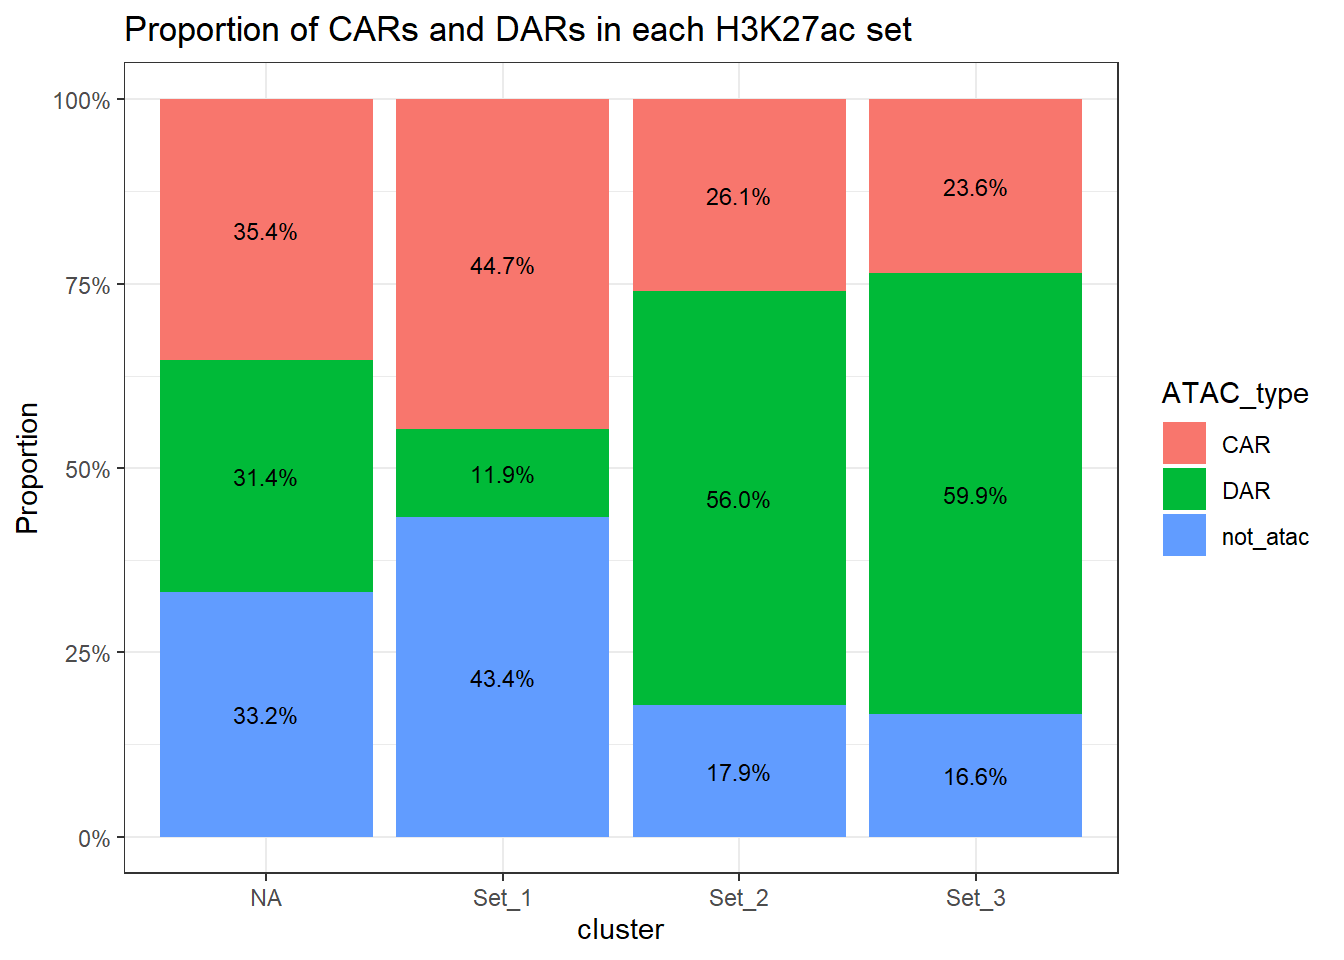
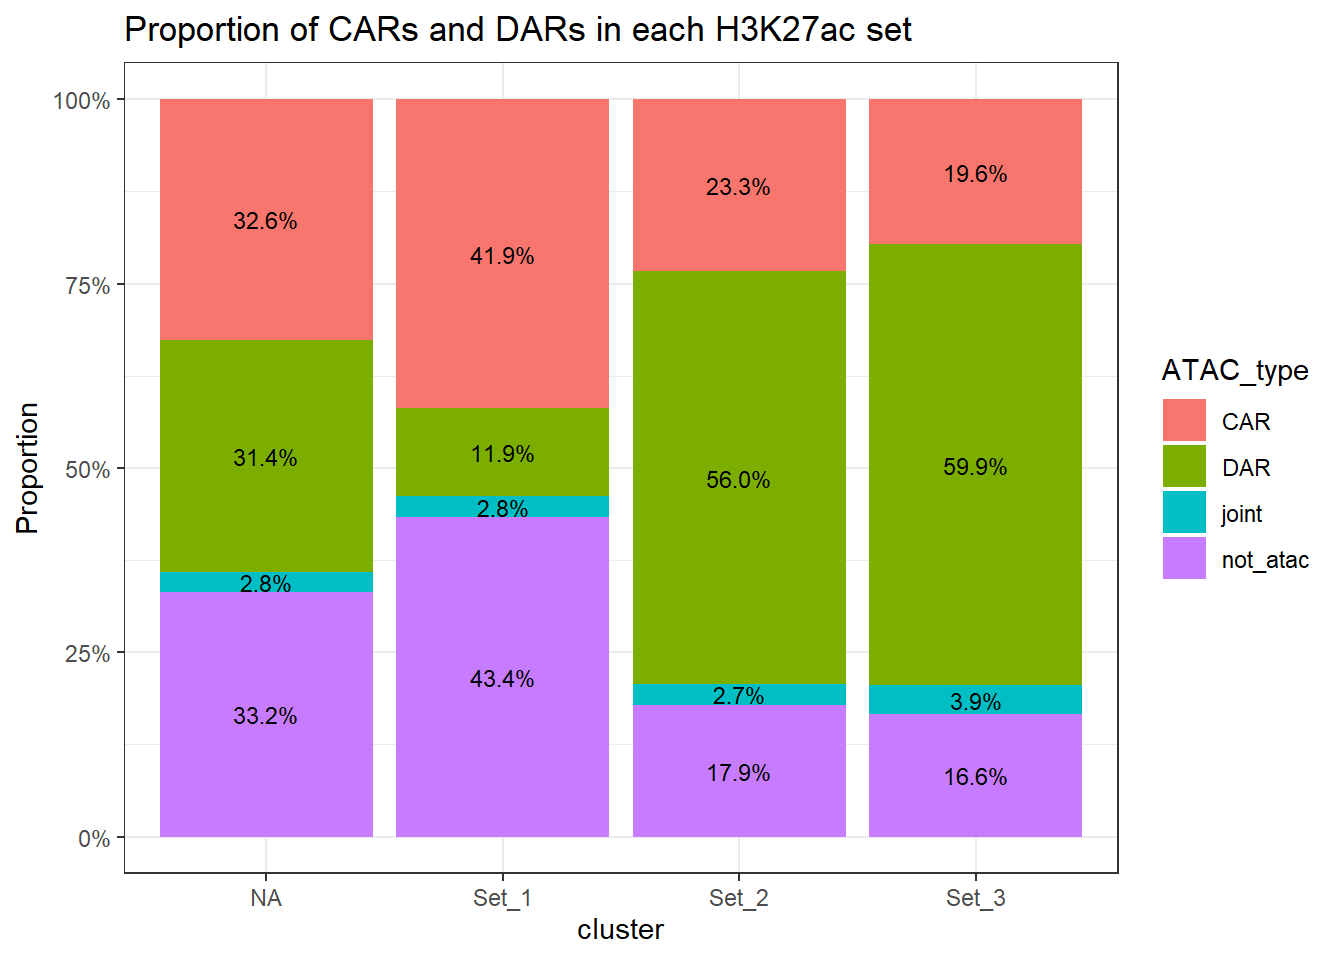
Build site.

diff --git a/docs/ATAC_integration_data1.html b/docs/ATAC_integration_data1.html
@@ -37,6 +37,19 @@
 <script src="site_libs/navigation-1.1/tabsets.js"></script>
 <link href="site_libs/highlightjs-9.12.0/textmate.css" rel="stylesheet" />
 <script src="site_libs/highlightjs-9.12.0/highlight.js"></script>
+<link href="site_libs/htmltools-fill-0.5.8.1/fill.css" rel="stylesheet" />
+<script src="site_libs/htmlwidgets-1.6.4/htmlwidgets.js"></script>
+<link href="site_libs/datatables-css-0.0.0/datatables-crosstalk.css" rel="stylesheet" />
+<script src="site_libs/datatables-binding-0.33/datatables.js"></script>
+<link href="site_libs/dt-core-1.13.6/css/jquery.dataTables.min.css" rel="stylesheet" />
+<link href="site_libs/dt-core-1.13.6/css/jquery.dataTables.extra.css" rel="stylesheet" />
+<script src="site_libs/dt-core-1.13.6/js/jquery.dataTables.min.js"></script>
+<link href="site_libs/nouislider-7.0.10/jquery.nouislider.min.css" rel="stylesheet" />
+<script src="site_libs/nouislider-7.0.10/jquery.nouislider.min.js"></script>
+<link href="site_libs/selectize-0.12.0/selectize.bootstrap3.css" rel="stylesheet" />
+<script src="site_libs/selectize-0.12.0/selectize.min.js"></script>
+<link href="site_libs/crosstalk-1.2.2/css/crosstalk.min.css" rel="stylesheet" />
+<script src="site_libs/crosstalk-1.2.2/js/crosstalk.min.js"></script>
 <link href="site_libs/font-awesome-6.5.2/css/all.min.css" rel="stylesheet" />
 <link href="site_libs/font-awesome-6.5.2/css/v4-shims.min.css" rel="stylesheet" />
 
@@ -521,15 +534,15 @@ project makes it easier to run your code on other machines.</p>
 <div class="panel panel-default">
 <div class="panel-heading">
 <p class="panel-title">
-<a data-toggle="collapse" data-parent="#workflowr-checks" href="#strongRepositoryversionstrongahrefhttpsgithubcomreneeisnowhereDXRcontinuetree2be9ae76c74a1a497afd38550e2b13e3aa8737cctargetblank2be9ae7a">
+<a data-toggle="collapse" data-parent="#workflowr-checks" href="#strongRepositoryversionstrongahrefhttpsgithubcomreneeisnowhereDXRcontinuetree35a2cb2b66e21b805b037a6027d5c706638639a9targetblank35a2cb2a">
 <span class="glyphicon glyphicon-ok text-success"
 aria-hidden="true"></span> <strong>Repository version:</strong>
-<a href="https://github.com/reneeisnowhere/DXR_continue/tree/2be9ae76c74a1a497afd38550e2b13e3aa8737cc" target="_blank">2be9ae7</a>
+<a href="https://github.com/reneeisnowhere/DXR_continue/tree/35a2cb2b66e21b805b037a6027d5c706638639a9" target="_blank">35a2cb2</a>
 </a>
 </p>
 </div>
 <div
[2 lines of base64/hex data omitted]
 class="panel-collapse collapse">
 <div class="panel-body">
 <p>
@@ -539,7 +552,7 @@ reproducibility.
 </p>
 <p>
 The results in this page were generated with repository version
-<a href="https://github.com/reneeisnowhere/DXR_continue/tree/2be9ae76c74a1a497afd38550e2b13e3aa8737cc" target="_blank">2be9ae7</a>.
+<a href="https://github.com/reneeisnowhere/DXR_continue/tree/35a2cb2b66e21b805b037a6027d5c706638639a9" target="_blank">35a2cb2</a>.
 See the <em>Past versions</em> tab to see a history of the changes made
 to the R Markdown and HTML files.
 </p>
@@ -589,7 +602,6 @@ Unstaged changes:
     Modified:   analysis/H3K27ac_summit_processing.Rmd
     Modified:   analysis/dual_histone_TE_investigation.Rmd
     Modified:   analysis/final_analysis.Rmd
-    Modified:   analysis/index.Rmd
     Modified:   analysis/summit_files_processing.Rmd
 
 </code></pre>
@@ -636,6 +648,40 @@ Message
 </tr>
 </thead>
 <tbody>
+<tr>
+<td>
+Rmd
+</td>
+<td>
+<a href="https://github.com/reneeisnowhere/DXR_continue/blob/35a2cb2b66e21b805b037a6027d5c706638639a9/analysis/ATAC_integration_data1.Rmd" target="_blank">35a2cb2</a>
+</td>
+<td>
+reneeisnowhere
+</td>
+<td>
+2026-02-06
+</td>
+<td>
+wflow_publish("analysis/ATAC_integration_data1.Rmd")
+</td>
+</tr>
+<tr>
+<td>
+html
+</td>
+<td>
+<a href="https://rawcdn.githack.com/reneeisnowhere/DXR_continue/d950fb258e14598011f4eb05ff1a379a98afe37e/docs/ATAC_integration_data1.html" target="_blank">d950fb2</a>
+</td>
+<td>
+reneeisnowhere
+</td>
+<td>
+2026-02-06
+</td>
+<td>
+Build site.
+</td>
+</tr>
 <tr>
 <td>
 Rmd
@@ -752,10 +798,9 @@ prop_ATAC_df &lt;- peakAnnoList_H3K27ac$all_H3K27ac %&gt;%
   left_join(H3K27ac_lookup) %&gt;% 
   mutate(cluster = if_else(is.na(cluster), &quot;NA&quot;, cluster)) %&gt;% 
   mutate(
-    ATAC_type = case_when(
+    ATAC_type = case_when(Peakid %in% joint_H3K27ac ~ &quot;joint&quot;,
       Peakid %in% H3K27ac_CAR_peakid$ROI_ID ~ &quot;CAR&quot;,
       Peakid %in% H3K27ac_DAR_peakid$ROI_ID ~ &quot;DAR&quot;,
-      Peakid %in% joint_H3K27ac             ~ &quot;joint&quot;,
       TRUE ~ &quot;not_atac&quot;
     )
   ) %&gt;%
@@ -778,6 +823,67 @@ ggplot(prop_ATAC_df, aes(x = cluster, y = percent, fill = ATAC_type)) +
   theme_bw()+
   ggtitle(&quot;Proportion of CARs and DARs in each H3K27ac set&quot;)</code></pre>
 <p><img src="figure/ATAC_integration_data1.Rmd/unnamed-chunk-2-1.png" width="672" style="display: block; margin: auto;" /></p>
+<p>
+<button type="button" class="btn btn-default btn-xs btn-workflowr btn-workflowr-fig" data-toggle="collapse" data-target="#fig-unnamed-chunk-2-1">
+Past versions of unnamed-chunk-2-1.png
+</button>
+</p>
+<div id="fig-unnamed-chunk-2-1" class="collapse">
+<div class="table-responsive">
+<table class="table table-condensed table-hover">
+<thead>
+<tr>
+<th>
+Version
+</th>
+<th>
+Author
+</th>
+<th>
+Date
+</th>
+</tr>
+</thead>
+<tbody>
+<tr>
+<td>
+<a href="https://github.com/reneeisnowhere/DXR_continue/blob/d950fb258e14598011f4eb05ff1a379a98afe37e/docs/figure/ATAC_integration_data1.Rmd/unnamed-chunk-2-1.png" target="_blank">d950fb2</a>
+</td>
+<td>
+reneeisnowhere
+</td>
+<td>
+2026-02-06
+</td>
+</tr>
+</tbody>
+</table>
+</div>
+</div>
+<pre class="r"><code>prop_ATAC_df %&gt;% 
+  pivot_wider(id_cols = c(cluster), names_from = ATAC_type, values_from = percent) %&gt;% 
+   datatable(.,rownames = FALSE,
+  filter = &#39;top&#39;,       # add filter/search boxes
+  options = list(
+    pageLength = 10,
+    autoWidth = TRUE,
+    scrollX = TRUE)) %&gt;% 
+  DT::formatRound(columns = c(&quot;CAR&quot;, &quot;DAR&quot;, &quot;joint&quot;, &quot;not_atac&quot;), # explicitly name the numeric columns
+    digits = 2)</code></pre>
+<div class="datatables html-widget html-fill-item" id="htmlwidget-c7fc7fd0704f0fe11c1f" style="width:100%;height:auto;"></div>
+<script type="application/json" data-for="htmlwidget-c7fc7fd0704f0fe11c1f">{"x":{"filter":"top","vertical":false,"filterHTML":"<tr>\n  <td data-type=\"character\" style=\"vertical-align: top;\">\n    <div class=\"form-group has-feedback\" style=\"margin-bottom: auto;\">\n      <input type=\"search\" placeholder=\"All\" class=\"form-control\" style=\"width: 100%;\"/>\n      <span class=\"glyphicon glyphicon-remove-circle form-control-feedback\"><\/span>\n    <\/div>\n  <\/td>\n  <td data-type=\"number\" style=\"vertical-align: top;\">\n    <div class=\"form-group has-feedback\" style=\"margin-bottom: auto;\">\n      <input type=\"search\" placeholder=\"All\" class=\"form-control\" style=\"width: 100%;\"/>\n      <span class=\"glyphicon glyphicon-remove-circle form-control-feedback\"><\/span>\n    <\/div>\n    <div style=\"display: none;position: absolute;width: 200px;opacity: 1\">\n      <div data-min=\"19.6285671146006\" data-max=\"41.9252570764144\" data-scale=\"14\"><\/div>\n      <span style=\"float: left;\"><\/span>\n      <span style=\"float: right;\"><\/span>\n    <\/div>\n  <\/td>\n  <td data-type=\"number\" style=\"vertical-align: top;\">\n    <div class=\"form-group has-feedback\" style=\"margin-bottom: auto;\">\n      <input type=\"search\" placeholder=\"All\" class=\"form-control\" style=\"width: 100%;\"/>\n      <span class=\"glyphicon glyphicon-remove-circle form-control-feedback\"><\/span>\n    <\/div>\n    <div style=\"display: none;position: absolute;width: 200px;opacity: 1\">\n      <div data-min=\"11.9463318920097\" data-max=\"59.8520308017515\" data-scale=\"14\"><\/div>\n      <span style=\"float: left;\"><\/span>\n      <span style=\"float: right;\"><\/span>\n    <\/div>\n  <\/td>\n  <td data-type=\"number\" style=\"vertical-align: top;\">\n    <div class=\"form-group has-feedback\" style=\"margin-bottom: auto;\">\n      <input type=\"search\" placeholder=\"All\" class=\"form-control\" style=\"width: 100%;\"/>\n      <span class=\"glyphicon glyphicon-remove-circle form-control-feedback\"><\/span>\n    <\/div>\n    <div style=\"display: none;position: absolute;width: 200px;opacity: 1\">\n      <div data-min=\"2.74368231046931\" data-max=\"3.92571342292013\" data-scale=\"15\"><\/div>\n      <span style=\"float: left;\"><\/span>\n      <span style=\"float: right;\"><\/span>\n    <\/div>\n  <\/td>\n  <td data-type=\"number\" style=\"vertical-align: top;\">\n    <div class=\"form-group has-feedback\" style=\"margin-bottom: auto;\">\n      <input type=\"search\" placeholder=\"All\" class=\"form-control\" style=\"width: 100%;\"/>\n      <span class=\"glyphicon glyphicon-remove-circle form-control-feedback\"><\/span>\n    <\/div>\n    <div style=\"display: none;position: absolute;width: 200px;opacity: 1\">\n      <div data-min=\"16.5936886607278\" data-max=\"43.367791868028\" data-scale=\"14\"><\/div>\n      <span style=\"float: left;\"><\/span>\n      <span style=\"float: right;\"><\/span>\n    <\/div>\n  <\/td>\n<\/tr>","data":[["NA","Set_1","Set_2","Set_3"],[32.62140779886801,41.92525707641438,23.32129963898917,19.62856711460064],[31.43000093811564,11.94633189200974,56.02888086642599,59.85203080175148],[2.783076393883486,2.760619163547836,2.743682310469314,3.925713422920127],[33.16551486913287,43.36779186802805,17.90613718411552,16.59368866072777]],"container":"<table class=\"display\">\n  <thead>\n    <tr>\n      <th>cluster<\/th>\n      <th>CAR<\/th>\n      <th>DAR<\/th>\n      <th>joint<\/th>\n      <th>not_atac<\/th>\n    <\/tr>\n  <\/thead>\n<\/table>","options":{"pageLength":10,"autoWidth":true,"scrollX":true,"columnDefs":[{"targets":1,"render":"function(data, type, row, meta) {\n    return type !== 'display' ? data : DTWidget.formatRound(data, 2, 3, \",\", \".\", null);\n  }"},{"targets":2,"render":"function(data, type, row, meta) {\n    return type !== 'display' ? data : DTWidget.formatRound(data, 2, 3, \",\", \".\", null);\n  }"},{"targets":3,"render":"function(data, type, row, meta) {\n    return type !== 'display' ? data : DTWidget.formatRound(data, 2, 3, \",\", \".\", null);\n  }"},{"targets":4,"render":"function(data, type, row, meta) {\n    return type !== 'display' ? data : DTWidget.formatRound(data, 2, 3, \",\", \".\", null);\n  }"},{"className":"dt-right","targets":[1,2,3,4]},{"name":"cluster","targets":0},{"name":"CAR","targets":1},{"name":"DAR","targets":2},{"name":"joint","targets":3},{"name":"not_atac","targets":4}],"order":[],"orderClasses":false,"orderCellsTop":true}},"evals":["options.columnDefs.0.render","options.columnDefs.1.render","options.columnDefs.2.render","options.columnDefs.3.render"],"jsHooks":[]}</script>
+<pre class="r"><code>prop_ATAC_df %&gt;% 
+  pivot_wider(id_cols = c(cluster), names_from = ATAC_type, values_from = n) %&gt;%
+  rowwise() %&gt;% 
+  mutate(total=sum(c_across(any_of(c(&quot;CAR&quot;, &quot;DAR&quot;,&quot;joint&quot;,&quot;not_atac&quot;))))) %&gt;% 
+  datatable(.,rownames = FALSE,
+  filter = &#39;top&#39;,       # add filter/search boxes
+  options = list(
+    pageLength = 10,
+    autoWidth = TRUE,
+    scrollX = TRUE), caption = &quot;counts of H3K27ac ROIs&quot;)</code></pre>
+<div class="datatables html-widget html-fill-item" id="htmlwidget-1aee943cb026952af47d" style="width:100%;height:auto;"></div>
+<script type="application/json" data-for="htmlwidget-1aee943cb026952af47d">{"x":{"filter":"top","vertical":false,"filterHTML":"<tr>\n  <td data-type=\"character\" style=\"vertical-align: top;\">\n    <div class=\"form-group has-feedback\" style=\"margin-bottom: auto;\">\n      <input type=\"search\" placeholder=\"All\" class=\"form-control\" style=\"width: 100%;\"/>\n      <span class=\"glyphicon glyphicon-remove-circle form-control-feedback\"><\/span>\n    <\/div>\n  <\/td>\n  <td data-type=\"integer\" style=\"vertical-align: top;\">\n    <div class=\"form-group has-feedback\" style=\"margin-bottom: auto;\">\n      <input type=\"search\" placeholder=\"All\" class=\"form-control\" style=\"width: 100%;\"/>\n      <span class=\"glyphicon glyphicon-remove-circle form-control-feedback\"><\/span>\n    <\/div>\n    <div style=\"display: none;position: absolute;width: 200px;opacity: 1\">\n      <div data-min=\"323\" data-max=\"46153\"><\/div>\n      <span style=\"float: left;\"><\/span>\n      <span style=\"float: right;\"><\/span>\n    <\/div>\n  <\/td>\n  <td data-type=\"integer\" style=\"vertical-align: top;\">\n    <div class=\"form-group has-feedback\" style=\"margin-bottom: auto;\">\n      <input type=\"search\" placeholder=\"All\" class=\"form-control\" style=\"width: 100%;\"/>\n      <span class=\"glyphicon glyphicon-remove-circle form-control-feedback\"><\/span>\n    <\/div>\n    <div style=\"display: none;position: absolute;width: 200px;opacity: 1\">\n      <div data-min=\"776\" data-max=\"13151\"><\/div>\n      <span style=\"float: left;\"><\/span>\n      <span style=\"float: right;\"><\/span>\n    <\/div>\n  <\/td>\n  <td data-type=\"integer\" style=\"vertical-align: top;\">\n    <div class=\"form-group has-feedback\" style=\"margin-bottom: auto;\">\n      <input type=\"search\" placeholder=\"All\" class=\"form-control\" style=\"width: 100%;\"/>\n      <span class=\"glyphicon glyphicon-remove-circle form-control-feedback\"><\/span>\n    <\/div>\n    <div style=\"display: none;position: absolute;width: 200px;opacity: 1\">\n      <div data-min=\"38\" data-max=\"3039\"><\/div>\n      <span style=\"float: left;\"><\/span>\n      <span style=\"float: right;\"><\/span>\n    <\/div>\n  <\/td>\n  <td data-type=\"integer\" style=\"vertical-align: top;\">\n    <div class=\"form-group has-feedback\" style=\"margin-bottom: auto;\">\n      <input type=\"search\" placeholder=\"All\" class=\"form-control\" style=\"width: 100%;\"/>\n      <span class=\"glyphicon glyphicon-remove-circle form-control-feedback\"><\/span>\n    <\/div>\n    <div style=\"display: none;position: absolute;width: 200px;opacity: 1\">\n      <div data-min=\"248\" data-max=\"47741\"><\/div>\n      <span style=\"float: left;\"><\/span>\n      <span style=\"float: right;\"><\/span>\n    <\/div>\n  <\/td>\n  <td data-type=\"integer\" style=\"vertical-align: top;\">\n    <div class=\"form-group has-feedback\" style=\"margin-bottom: auto;\">\n      <input type=\"search\" placeholder=\"All\" class=\"form-control\" style=\"width: 100%;\"/>\n      <span class=\"glyphicon glyphicon-remove-circle form-control-feedback\"><\/span>\n    <\/div>\n    <div style=\"display: none;position: absolute;width: 200px;opacity: 1\">\n      <div data-min=\"1385\" data-max=\"110084\"><\/div>\n      <span style=\"float: left;\"><\/span>\n      <span style=\"float: right;\"><\/span>\n    <\/div>\n  <\/td>\n<\/tr>","caption":"<caption>counts of H3K27ac ROIs<\/caption>","data":[["NA","Set_1","Set_2","Set_3"],[10432,46153,323,1300],[10051,13151,776,3964],[890,3039,38,260],[10606,47741,248,1099],[31979,110084,1385,6623]],"container":"<table class=\"display\">\n  <thead>\n    <tr>\n      <th>cluster<\/th>\n      <th>CAR<\/th>\n      <th>DAR<\/th>\n      <th>joint<\/th>\n      <th>not_atac<\/th>\n      <th>total<\/th>\n    <\/tr>\n  <\/thead>\n<\/table>","options":{"pageLength":10,"autoWidth":true,"scrollX":true,"columnDefs":[{"className":"dt-right","targets":[1,2,3,4,5]},{"name":"cluster","targets":0},{"name":"CAR","targets":1},{"name":"DAR","targets":2},{"name":"joint","targets":3},{"name":"not_atac","targets":4},{"name":"total","targets":5}],"order":[],"orderClasses":false,"orderCellsTop":true}},"evals":[],"jsHooks":[]}</script>
 <br>
 <p>
 <button type="button" class="btn btn-default btn-workflowr btn-workflowr-sessioninfo" data-toggle="collapse" data-target="#workflowr-sessioninfo" style="display: block;">
@@ -868,90 +974,91 @@ loaded via a namespace (and not attached):
  [47] AnnotationDbi_1.68.0                   
  [48] ps_1.9.1                               
  [49] rprojroot_2.1.1                        
- [50] RSQLite_2.4.3                          
- [51] labeling_0.4.3                         
- [52] timechange_0.3.0                       
- [53] httr_1.4.7                             
- [54] abind_1.4-8                            
- [55] compiler_4.4.2                         
- [56] bit64_4.6.0-1                          
- [57] withr_3.0.2                            
- [58] BiocParallel_1.40.2                    
- [59] DBI_1.2.3                              
- [60] gplots_3.2.0                           
- [61] R.utils_2.13.0                         
- [62] rappdirs_0.3.3                         
- [63] DelayedArray_0.32.0                    
- [64] rjson_0.2.23                           
- [65] caTools_1.18.3                         
- [66] gtools_3.9.5                           
- [67] tools_4.4.2                            
- [68] ape_5.8-1                              
- [69] httpuv_1.6.16                          
- [70] R.oo_1.27.1                            
- [71] glue_1.8.0                             
- [72] restfulr_0.0.16                        
- [73] callr_3.7.6                            
- [74] nlme_3.1-168                           
- [75] GOSemSim_2.32.0                        
- [76] promises_1.3.3                         
- [77] getPass_0.2-4                          
- [78] gridBase_0.4-7                         
- [79] reshape2_1.4.4                         
- [80] fgsea_1.32.4                           
- [81] generics_0.1.4                         
- [82] gtable_0.3.6                           
- [83] BSgenome_1.74.0                        
- [84] tzdb_0.5.0                             
- [85] R.methodsS3_1.8.2                      
- [86] seqPattern_1.38.0                      
- [87] data.table_1.17.8                      
- [88] hms_1.1.3                              
- [89] XVector_0.46.0                         
- [90] pillar_1.11.0                          
- [91] yulab.utils_0.2.1                      
- [92] later_1.4.2                            
- [93] splines_4.4.2                          
- [94] treeio_1.30.0                          
- [95] lattice_0.22-7                         
- [96] bit_4.6.0                              
- [97] tidyselect_1.2.1                       
- [98] GO.db_3.20.0                           
- [99] Biostrings_2.74.1                      
-[100] knitr_1.50                             
-[101] git2r_0.36.2                           
-[102] SummarizedExperiment_1.36.0            
-[103] xfun_0.52                              
-[104] Biobase_2.66.0                         
-[105] matrixStats_1.5.0                      
-[106] stringi_1.8.7                          
-[107] UCSC.utils_1.2.0                       
-[108] lazyeval_0.2.2                         
-[109] boot_1.3-32                            
-[110] ggfun_0.2.0                            
-[111] yaml_2.3.10                            
-[112] evaluate_1.0.5                         
-[113] codetools_0.2-20                       
-[114] qvalue_2.38.0                          
-[115] ggplotify_0.1.2                        
-[116] cli_3.6.5                              
-[117] processx_3.8.6                         
-[118] jquerylib_0.1.4                        
-[119] dichromat_2.0-0.1                      
-[120] Rcpp_1.1.0                             
-[121] png_0.1-8                              
-[122] XML_3.99-0.18                          
-[123] parallel_4.4.2                         
-[124] blob_1.2.4                             
-[125] DOSE_4.0.1                             
-[126] bitops_1.0-9                           
-[127] tidytree_0.4.6                         
-[128] scales_1.4.0                           
-[129] crayon_1.5.3                           
-[130] rlang_1.1.6                            
-[131] fastmatch_1.1-6                        
-[132] cowplot_1.2.0                          
-[133] KEGGREST_1.46.0                        </code></pre>
+ [50] crosstalk_1.2.2                        
+ [51] RSQLite_2.4.3                          
+ [52] labeling_0.4.3                         
+ [53] timechange_0.3.0                       
+ [54] httr_1.4.7                             
+ [55] abind_1.4-8                            
+ [56] compiler_4.4.2                         
+ [57] bit64_4.6.0-1                          
+ [58] withr_3.0.2                            
+ [59] BiocParallel_1.40.2                    
+ [60] DBI_1.2.3                              
+ [61] gplots_3.2.0                           
+ [62] R.utils_2.13.0                         
+ [63] rappdirs_0.3.3                         
+ [64] DelayedArray_0.32.0                    
+ [65] rjson_0.2.23                           
+ [66] caTools_1.18.3                         
+ [67] gtools_3.9.5                           
+ [68] tools_4.4.2                            
+ [69] ape_5.8-1                              
+ [70] httpuv_1.6.16                          
+ [71] R.oo_1.27.1                            
+ [72] glue_1.8.0                             
+ [73] restfulr_0.0.16                        
+ [74] callr_3.7.6                            
+ [75] nlme_3.1-168                           
+ [76] GOSemSim_2.32.0                        
+ [77] promises_1.3.3                         
+ [78] getPass_0.2-4                          
+ [79] gridBase_0.4-7                         
+ [80] reshape2_1.4.4                         
+ [81] fgsea_1.32.4                           
+ [82] generics_0.1.4                         
+ [83] gtable_0.3.6                           
+ [84] BSgenome_1.74.0                        
+ [85] tzdb_0.5.0                             
+ [86] R.methodsS3_1.8.2                      
+ [87] seqPattern_1.38.0                      
+ [88] data.table_1.17.8                      
+ [89] hms_1.1.3                              
+ [90] XVector_0.46.0                         
+ [91] pillar_1.11.0                          
+ [92] yulab.utils_0.2.1                      
+ [93] later_1.4.2                            
+ [94] splines_4.4.2                          
+ [95] treeio_1.30.0                          
+ [96] lattice_0.22-7                         
+ [97] bit_4.6.0                              
+ [98] tidyselect_1.2.1                       
+ [99] GO.db_3.20.0                           
+[100] Biostrings_2.74.1                      
+[101] knitr_1.50                             
+[102] git2r_0.36.2                           
+[103] SummarizedExperiment_1.36.0            
+[104] xfun_0.52                              
+[105] Biobase_2.66.0                         
+[106] matrixStats_1.5.0                      
+[107] stringi_1.8.7                          
+[108] UCSC.utils_1.2.0                       
+[109] lazyeval_0.2.2                         
+[110] boot_1.3-32                            
+[111] ggfun_0.2.0                            
+[112] yaml_2.3.10                            
+[113] evaluate_1.0.5                         
+[114] codetools_0.2-20                       
+[115] qvalue_2.38.0                          
+[116] ggplotify_0.1.2                        
+[117] cli_3.6.5                              
+[118] processx_3.8.6                         
+[119] jquerylib_0.1.4                        
+[120] dichromat_2.0-0.1                      
+[121] Rcpp_1.1.0                             
+[122] png_0.1-8                              
+[123] XML_3.99-0.18                          
+[124] parallel_4.4.2                         
+[125] blob_1.2.4                             
+[126] DOSE_4.0.1                             
+[127] bitops_1.0-9                           
+[128] tidytree_0.4.6                         
+[129] scales_1.4.0                           
+[130] crayon_1.5.3                           
+[131] rlang_1.1.6                            
+[132] fastmatch_1.1-6                        
+[133] cowplot_1.2.0                          
+[134] KEGGREST_1.46.0                        </code></pre>
 </div>
 </div>
 </div>
